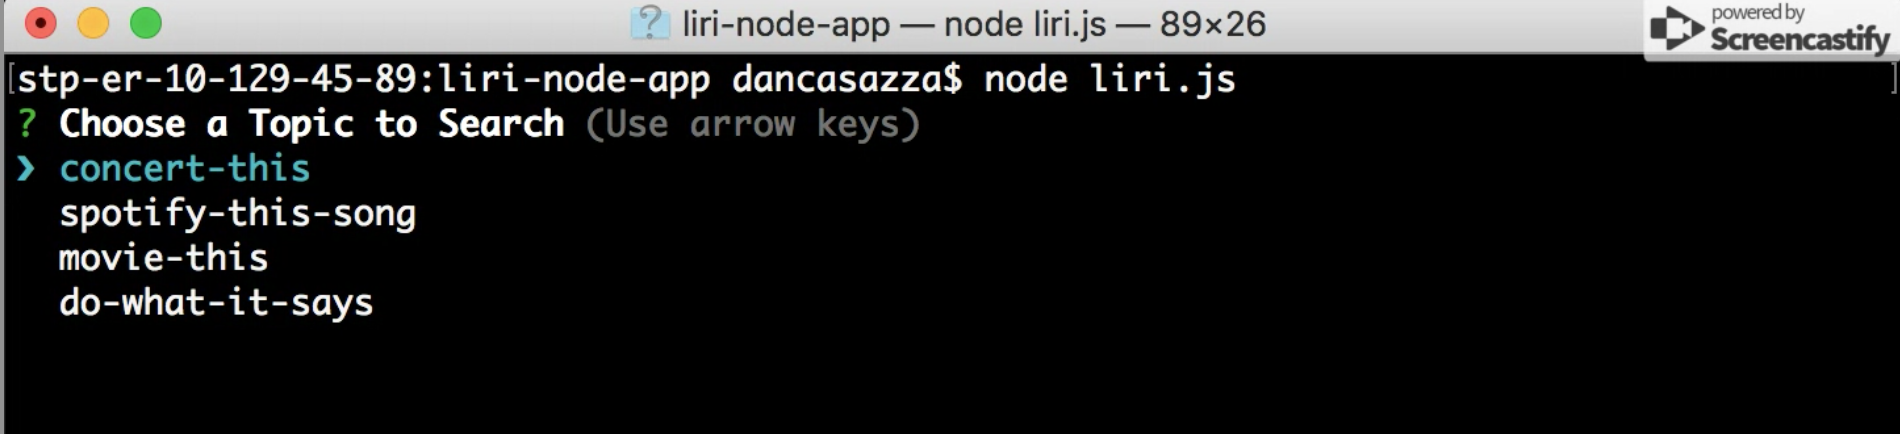
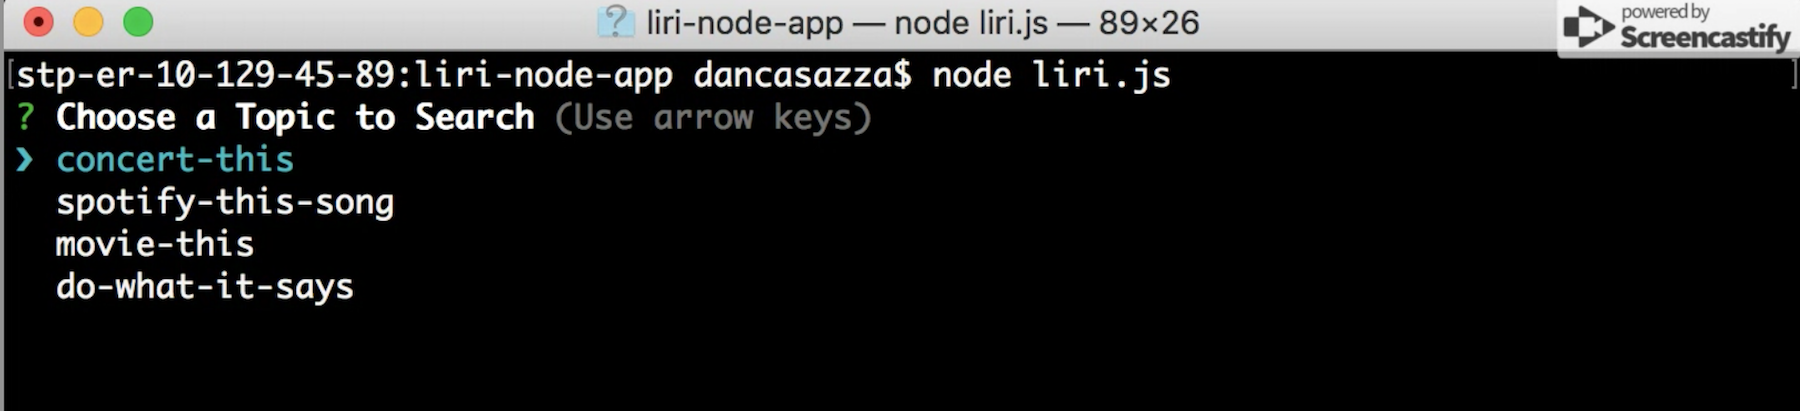
adjusting image size

diff --git a/README.md b/README.md
@@ -11,7 +11,7 @@ node liri.js
 ```
 The following prompt should appear
 
-![start prompt](/demo-screenshots/start prompt.png)
+![start prompt](/images/startPrompt.png)
 
 ## Built With
 
